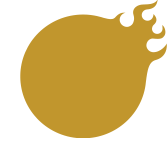
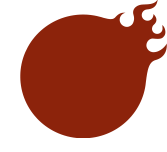
Update badge data

diff --git a/events.js b/events.js
@@ -13,9 +13,9 @@ var leaderboardTiers = [
 ];
 
 var patreonTiers = [
-	{"start" :  1, "name" : "Casual Contributor", "color" : "#995449"},
-	{"start" :  5, "name" : "Committed Casual",   "color" : "#a0a19c"},
-	{"start" : 25, "name" : "True Casual",        "color" : "#c2971c"},
+	{"start" :  1, "name" : "Casual Contributor", "color" : "#2E666B"},
+	{"start" :  5, "name" : "Committed Casual",   "color" : "#0A680D"},
+	{"start" : 25, "name" : "True Casual",        "color" : "#8c230B"},
 ];
 
 var badgeList = {
@@ -32,9 +32,11 @@ var badgeList = {
 	
 	"p0" : { "caption" : "Patreon: Casual Contributor", "style" : "light" },
 	"p1" : { "caption" : "Patreon: Committed Casual", "style" : "light" },
-	"p2" : { "caption" : "Patreon: True Casual", "style" : "light" },
+	"p2" : { "caption" : "Patreon: True Casual", "style" : "dark" },
 	
 	"casualcouple" : { "caption" : "Casual ARMS founder", "style" : "light" },
+	"clsh" : { "caption" : "Casual Clash Winner", "style" : "light" },
+	"scrmbl" : { "caption" : "Casual Scramble Winner", "style" : "dark" },
 };
 
 var eventStages = {

diff --git a/leaderboards/index.html b/leaderboards/index.html
@@ -26,7 +26,7 @@
 	}
 	
 	#leaderboard p.entry {
-		background-color: #171717;
+		background-color: black;
 		line-height: 0.9em;
 		padding: 0 8pt 0pt 4pt;
 		margin: 12pt 2pt 12pt 40pt;
@@ -155,7 +155,7 @@
 		position: relative;
 		width: 32pt;
 		height: 32pt;
-		margin: 5pt;
+		margin: 3pt;
 	}
 	
 	.badge-image {
